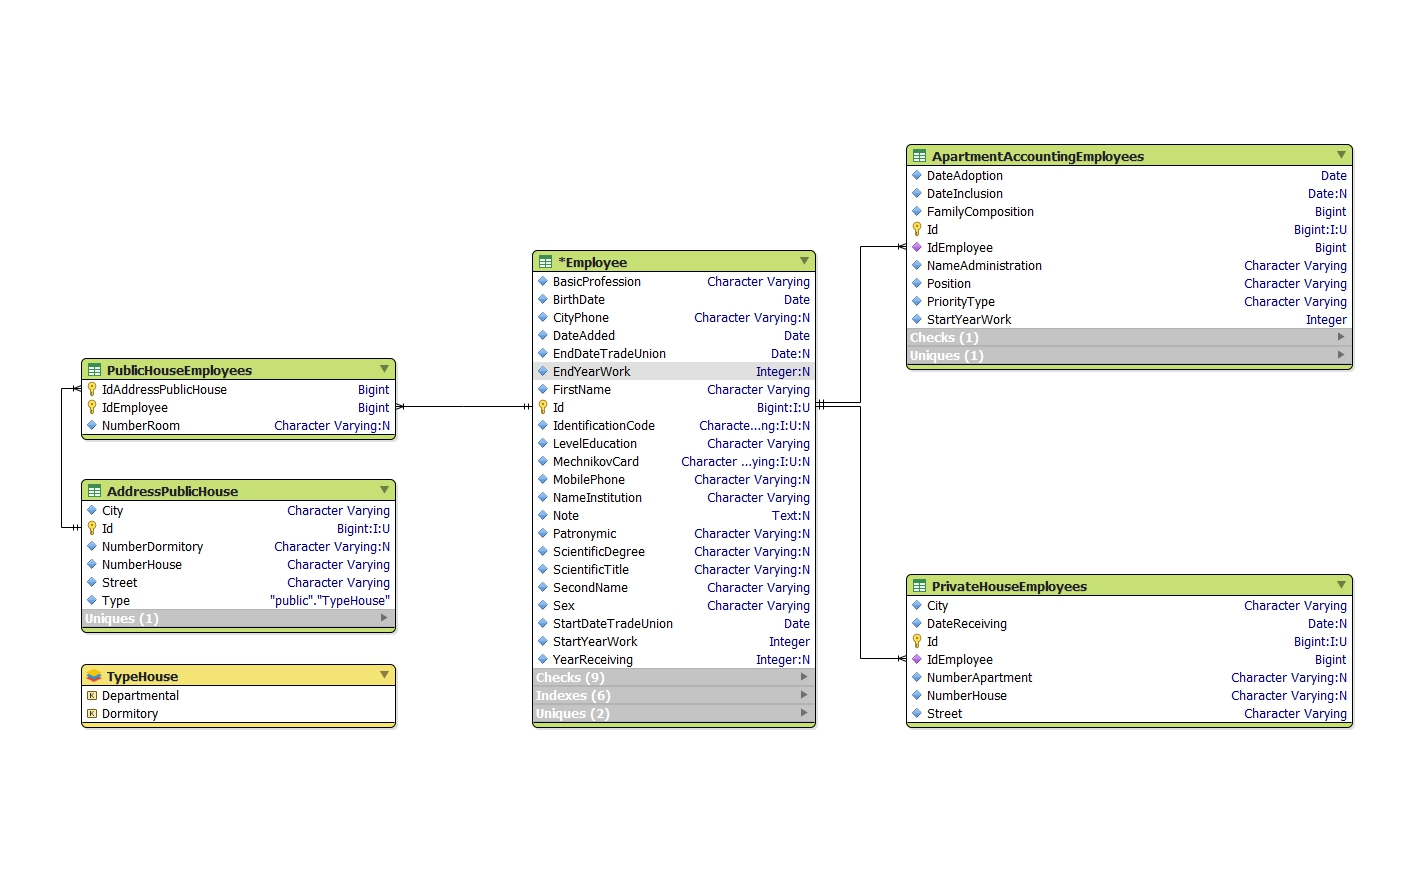
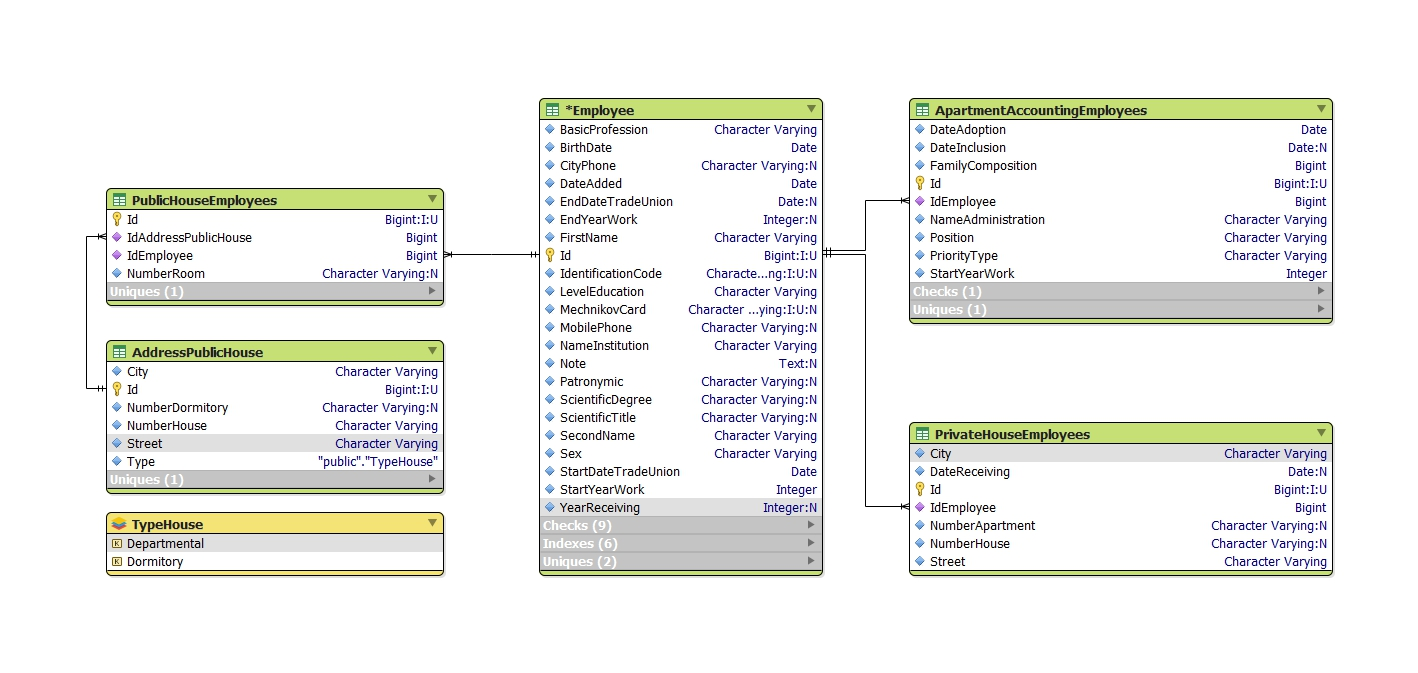
Completed updating data base

Changed region(s): [[0.3737, 0.1248, 0.9653, 0.8737], [0.0311, 0.2808, 0.3425, 0.8737], [0.6228, 0.6241, 0.9653, 0.8737]]

diff --git a/TradeUnionCommittee.DAL/EF/TradeUnionCommitteeEmployeesCoreContext.cs b/TradeUnionCommittee.DAL/EF/TradeUnionCommitteeEmployeesCoreContext.cs
@@ -61,12 +61,16 @@ namespace TradeUnionCommittee.DAL.EF
         public DbSet<SocialActivityEmployees> SocialActivityEmployees { get; set; }
         public DbSet<Subdivisions> Subdivisions { get; set; }
 
-        //------------------------------------------------
+        //------------------------------------------------------------------------------------------------------------------------------------------
 
         protected override void OnModelCreating(ModelBuilder modelBuilder)
         {
-            modelBuilder.ForNpgsqlHasEnum(null, "TypeEvent", new[] { "Travel", "Wellness", "Tour" })
-                        .ForNpgsqlHasEnum(null, "TypeHouse", new[] { "Dormitory", "Departmental" });
+            modelBuilder
+                .ForNpgsqlHasEnum("audit", "Operations", new[] { "Select", "Insert", "Update", "Delete" })
+                .ForNpgsqlHasEnum("audit", "Tables", new[] { "Employee", "Children", "GrandChildren", "Family", "Award", "MaterialAid", "Hobby", "Event", "Cultural", "Activities", "Privileges", "SocialActivity", "Position", "Subdivisions", "AddressPublicHouse", "AwardEmployees", "MaterialAidEmployees", "HobbyEmployees", "FluorographyEmployees", "EventEmployees", "CulturalEmployees", "ActivityEmployees", "GiftEmployees", "PrivilegeEmployees", "SocialActivityEmployees", "PositionEmployees", "PublicHouseEmployees", "PrivateHouseEmployees", "ApartmentAccountingEmployees", "EventChildrens", "CulturalChildrens", "HobbyChildrens", "ActivityChildrens", "GiftChildrens", "EventGrandChildrens", "CulturalGrandChildrens", "HobbyGrandChildrens", "ActivityGrandChildrens", "GiftGrandChildrens", "EventFamily", "CulturalFamily", "ActivityFamily" })
+                .ForNpgsqlHasEnum(null, "TypeEvent", new[] { "Travel", "Wellness", "Tour" })
+                .ForNpgsqlHasEnum(null, "TypeHouse", new[] { "Dormitory", "Departmental" })
+                .HasPostgresExtension("pg_trgm");
 
             modelBuilder.Entity<Activities>(entity =>
             {
@@ -394,11 +398,23 @@ namespace TradeUnionCommittee.DAL.EF
 
                 entity.Property(e => e.IdentificationСode).HasColumnType("character varying");
 
+                entity.Property(e => e.LevelEducation)
+                    .IsRequired()
+                    .HasColumnType("character varying");
+
                 entity.Property(e => e.MechnikovCard).HasColumnType("character varying");
 
                 entity.Property(e => e.MobilePhone).HasColumnType("character varying");
 
+                entity.Property(e => e.NameInstitution)
+                    .IsRequired()
+                    .HasColumnType("character varying");
+
                 entity.Property(e => e.Patronymic).HasColumnType("character varying");
+
+                entity.Property(e => e.ScientificDegree).HasColumnType("character varying");
+
+                entity.Property(e => e.ScientificTitle).HasColumnType("character varying");
 
                 entity.Property(e => e.SecondName)
                     .IsRequired()
@@ -409,18 +425,6 @@ namespace TradeUnionCommittee.DAL.EF
                     .HasColumnType("character varying");
 
                 entity.Property(e => e.StartDateTradeUnion).HasColumnType("date");
-
-                entity.Property(e => e.LevelEducation)
-                    .IsRequired()
-                    .HasColumnType("character varying");
-
-                entity.Property(e => e.NameInstitution)
-                    .IsRequired()
-                    .HasColumnType("character varying");
-
-                entity.Property(e => e.ScientificDegree).HasColumnType("character varying");
-
-                entity.Property(e => e.ScientificTitle).HasColumnType("character varying");
             });
 
             modelBuilder.Entity<Event>(entity =>
@@ -864,7 +868,9 @@ namespace TradeUnionCommittee.DAL.EF
 
             modelBuilder.Entity<PublicHouseEmployees>(entity =>
             {
-                entity.HasKey(e => new { e.IdAddressPublicHouse, e.IdEmployee });
+                entity.HasIndex(e => new { e.IdAddressPublicHouse, e.IdEmployee })
+                    .HasName("PublicHouseEmployees_IdAddressPublicHouse_IdEmployee_key")
+                    .IsUnique();
 
                 entity.Property(e => e.NumberRoom).HasColumnType("character varying");
 
@@ -911,15 +917,19 @@ namespace TradeUnionCommittee.DAL.EF
 
             modelBuilder.Entity<Subdivisions>(entity =>
             {
+                entity.HasIndex(e => e.Abbreviation)
+                    .HasName("Subdivisions_Abbreviation_key")
+                    .IsUnique();
+
                 entity.HasIndex(e => e.Name)
                     .HasName("Subdivisions_Name_key")
                     .IsUnique();
 
-                entity.Property(e => e.Name)
+                entity.Property(e => e.Abbreviation)
                     .IsRequired()
                     .HasColumnType("character varying");
 
-                entity.Property(e => e.Abbreviation)
+                entity.Property(e => e.Name)
                     .IsRequired()
                     .HasColumnType("character varying");
 

diff --git a/TradeUnionCommittee.DAL/Entities/PublicHouseEmployees.cs b/TradeUnionCommittee.DAL/Entities/PublicHouseEmployees.cs
@@ -5,6 +5,7 @@ namespace TradeUnionCommittee.DAL.Entities
 {
     public class PublicHouseEmployees
     {
+        public long Id { get; set; }
         public long IdAddressPublicHouse { get; set; }
         public long IdEmployee { get; set; }
         public string NumberRoom { get; set; }
